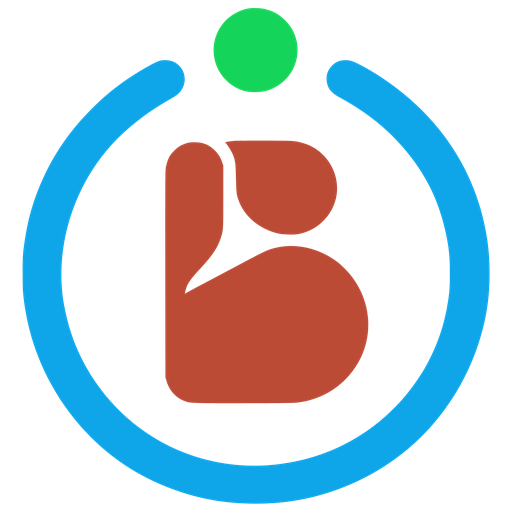
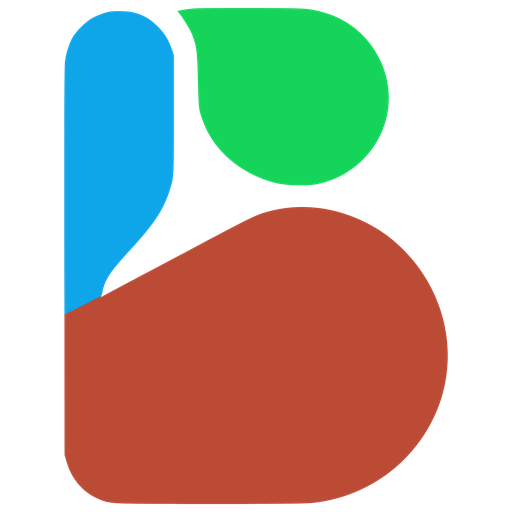
feat: switch the brand mark to B Tricolor
The ring and particle are gone; the B is split into a rust bowl, a sky
stem and a green chamber. BrandMark draws the three outlines from
operations strategy/logo/b-tricolor, and the favicon set in public/ is
replaced by that version's same-named files.

diff --git a/packages/web/src/ui/BrandMark.tsx b/packages/web/src/ui/BrandMark.tsx
@@ -9,21 +9,20 @@ interface BrandMarkProps {
 }
 
 /**
- * Maps the traced outlines onto the viewBox: the outer pair places the mark at
- * the source aspect ratio, the inner pair is the tracer's own y-flip. All three
- * paths share it, so the shapes stay registered to each other.
+ * Maps the outlines onto the viewBox: one uniform scale with a y-flip, which
+ * keeps the source aspect ratio and turns the tracer's y-up coordinates into
+ * the viewBox's y-down ones. All three paths share it, so the shapes stay
+ * registered to each other.
  */
-const TRANSFORM =
-  'translate(0.926888,-0.005946) scale(0.07814190) ' +
-  'translate(0.000000,1280.000000) scale(0.100000,-0.100000)';
+const TRANSFORM = 'translate(-46.512353,137.124128) scale(0.01476023,-0.01476023)';
 
 /**
  * Brand mark — the Breatic logo as an inlined SVG, with no link or wordmark so
  * each chrome (project top bar, studio top bar) wraps it in its own home link.
- * An open sky ring (#0EA5E9) carries a lime particle (#15D45A) at its crown,
- * and a rust core (#BC4B36) sits inside: a vertical anchor, a small upper
- * chamber held apart from it, and a fuller lower one. The white space between
- * them reads as a B on second glance rather than first.
+ * A B in three parts: a rust bowl (#BC4B36) at the bottom, a sky stem
+ * (#0EA5E9) rising on the left, and a lime chamber (#15D45A) at the top right.
+ * The bowl reaches a few units under the stem along their cut, and the stem
+ * is drawn after it, so the two colours meet without an anti-aliased seam.
  *
  * Single source of the mark, shared by both top bars so neither duplicates
  * the SVG. Lives in `ui/` (the cross-feature atom layer) because both
@@ -32,11 +31,11 @@ const TRANSFORM =
  *
  * The logo is the only place the brand raw colors are allowed (ADR 14
  * amended + brand-guard CI); chrome elsewhere uses neutral / primary.
- * Geometry: viewBox `0 0 100 100`, three Bezier outlines traced from
- * `marketing/logo/orbit-b-negative-space-curve/reference/approved-effect.png`,
- * whose SPEC.md holds the full spec. Every element sets fill explicitly
- * (raster backend compatibility). It is scaled by `size` alone (the viewBox is
- * fixed), so it stays crisp at any px.
+ * Geometry: viewBox `0 0 100 100`, the three outlines of `logo-master.svg` in
+ * the operations repo's `strategy/logo/b-tricolor/`, whose SPEC.md holds the
+ * full spec. Every element sets fill explicitly (raster backend
+ * compatibility). It is scaled by `size` alone (the viewBox is fixed), so it
+ * stays crisp at any px.
  * @param props - Brand-mark props.
  * @param props.size - Rendered px size (square); defaults to 28.
  * @returns the inlined brand SVG mark.
@@ -52,22 +51,22 @@ export function BrandMark({ size = 28 }: BrandMarkProps): React.JSX.Element {
       data-testid='top-bar-logo'
     >
       <path
-        id='blue'
-        fill='#0EA5E9'
-        transform={TRANSFORM}
-        d='M3973 10975 c-137 -37 -610 -314 -913 -535 -264 -192 -447 -348 -689 -585 -619 -608 -1065 -1290 -1361 -2085 -120 -320 -206 -647 -265 -1005 -61 -372 -69 -478 -69 -900 0 -409 11 -545 70 -899 191 -1135 745 -2206 1564 -3027 554 -555 1196 -965 1955 -1247 432 -161 850 -262 1310 -316 456 -54 1010 -50 1470 10 1192 155 2328 703 3178 1533 626 611 1120 1408 1397 2256 200 613 281 1167 267 1814 -8 373 -37 634 -107 983 -237 1177 -836 2216 -1749 3032 -397 355 -870 681 -1301 897 -142 71 -226 93 -335 86 -117 -7 -201 -44 -281 -122 -140 -137 -176 -317 -104 -509 37 -98 130 -186 287 -270 575 -312 1044 -672 1435 -1105 574 -635 911 -1282 1097 -2107 82 -367 105 -582 106 -999 0 -373 -12 -520 -71 -835 -80 -426 -194 -775 -379 -1158 -109 -224 -163 -320 -301 -527 -423 -639 -975 -1148 -1650 -1523 -846 -470 -1905 -671 -2879 -546 -926 119 -1778 503 -2471 1115 -698 617 -1211 1455 -1433 2344 -105 422 -145 727 -144 1110 2 910 297 1848 821 2610 263 383 552 695 922 994 308 249 501 380 949 640 94 56 145 101 193 175 152 234 69 545 -177 669 -89 45 -241 59 -342 32z'
-      />
-      <path
-        id='green'
-        fill='#15D45A'
-        transform={TRANSFORM}
-        d='M6125 12233 c-205 -28 -414 -135 -569 -290 -305 -305 -381 -780 -188 -1168 121 -245 337 -432 592 -515 102 -33 192 -43 344 -37 170 5 256 26 401 97 614 298 766 1103 302 1596 -163 173 -341 270 -566 309 -77 14 -244 18 -316 8z'
-      />
-      <path
-        id='red'
+        id='bowl'
         fill='#BC4B36'
         transform={TRANSFORM}
-        d='M5770 9050 c-52 -3 -125 -12 -163 -19 l-67 -13 20 -27 c65 -82 142 -211 168 -278 56 -145 64 -208 72 -573 8 -325 11 -365 47 -475 126 -399 473 -709 928 -831 134 -35 392 -45 528 -20 423 80 762 387 882 800 168 583 -185 1215 -773 1381 -202 57 -205 58 -902 60 -355 1 -688 -1 -740 -5z M4684 9010 c-73 -13 -174 -52 -241 -91 -73 -44 -188 -159 -232 -232 -47 -80 -89 -211 -101 -320 -8 -63 -10 -867 -8 -2542 l3 -2450 23 -79 c65 -231 210 -399 417 -486 145 -60 152 -60 1420 -60 726 0 1192 4 1265 11 683 62 1275 473 1569 1089 333 697 188 1537 -363 2108 -158 164 -304 271 -511 375 -377 189 -806 242 -1186 146 -190 -48 -225 -64 -859 -401 -223 -119 -598 -318 -835 -443 -236 -125 -441 -235 -454 -243 -22 -15 -23 -15 -18 3 3 11 12 43 18 70 37 151 102 247 350 515 299 325 419 505 497 747 58 177 57 165 57 978 l0 750 -24 70 c-42 125 -90 204 -176 291 -133 134 -267 193 -455 199 -58 2 -128 0 -156 -5z'
+        d='M4103.50 5164.27 L4105.00 3375.00 L4128.00 3296.00 C4193.00 3065.00 4338.00 2897.00 4545.00 2810.00 C4690.00 2750.00 4697.00 2750.00 5965.00 2750.00 C6691.00 2750.00 7157.00 2754.00 7230.00 2761.00 C7913.00 2823.00 8505.00 3234.00 8799.00 3850.00 C9132.00 4547.00 8987.00 5387.00 8436.00 5958.00 C8278.00 6122.00 8132.00 6229.00 7925.00 6333.00 C7548.00 6522.00 7119.00 6575.00 6739.00 6479.00 C6549.00 6431.00 6514.00 6415.00 5880.00 6078.00 C5657.00 5959.00 5282.00 5760.00 5045.00 5635.00 C4809.00 5510.00 4604.00 5400.00 4591.00 5392.00 C4569.00 5377.00 4568.00 5377.00 4573.00 5395.00 L4573.00 5403.00 Z'
+      />
+      <path
+        id='stem'
+        fill='#0EA5E9'
+        transform={TRANSFORM}
+        d='M4573.00 5395.00 C4576.00 5406.00 4585.00 5438.00 4591.00 5465.00 C4628.00 5616.00 4693.00 5712.00 4941.00 5980.00 C5240.00 6305.00 5360.00 6485.00 5438.00 6727.00 C5496.00 6904.00 5495.00 6892.00 5495.00 7705.00 L5495.00 8455.00 L5471.00 8525.00 C5429.00 8650.00 5381.00 8729.00 5295.00 8816.00 C5162.00 8950.00 5028.00 9009.00 4840.00 9015.00 C4782.00 9017.00 4712.00 9015.00 4684.00 9010.00 C4611.00 8997.00 4510.00 8958.00 4443.00 8919.00 C4370.00 8875.00 4255.00 8760.00 4211.00 8687.00 C4164.00 8607.00 4122.00 8476.00 4110.00 8367.00 C4102.00 8304.00 4100.00 7500.00 4102.00 5825.00 L4103.50 5156.27 Z'
+      />
+      <path
+        id='top'
+        fill='#15D45A'
+        transform={TRANSFORM}
+        d='M5770.00 9050.00 C5718.00 9047.00 5645.00 9038.00 5607.00 9031.00 L5540.00 9018.00 L5560.00 8991.00 C5625.00 8909.00 5702.00 8780.00 5728.00 8713.00 C5784.00 8568.00 5792.00 8505.00 5800.00 8140.00 C5808.00 7815.00 5811.00 7775.00 5847.00 7665.00 C5973.00 7266.00 6320.00 6956.00 6775.00 6834.00 C6909.00 6799.00 7167.00 6789.00 7303.00 6814.00 C7726.00 6894.00 8065.00 7201.00 8185.00 7614.00 C8353.00 8197.00 8000.00 8829.00 7412.00 8995.00 C7210.00 9052.00 7207.00 9053.00 6510.00 9055.00 C6155.00 9056.00 5822.00 9054.00 5770.00 9050.00 Z'
       />
     </svg>
   );

diff --git a/packages/web/src/ui/__tests__/BrandMark.test.tsx b/packages/web/src/ui/__tests__/BrandMark.test.tsx
@@ -8,14 +8,13 @@ import { BrandMark } from '@web/ui/BrandMark';
 
 /** What each path contributes, and enough of its data to catch a swap. */
 const PATHS = [
-  { id: 'blue', fill: '#0EA5E9', length: 1038, head: 'M3973 10975 c-137 -37 -610 -314' },
-  { id: 'green', fill: '#15D45A', length: 219, head: 'M6125 12233 c-205 -28 -414 -135' },
-  { id: 'red', fill: '#BC4B36', length: 874, head: 'M5770 9050 c-52 -3 -125 -12 -163' },
+  { id: 'bowl', fill: '#BC4B36', length: 608, head: 'M4103.50 5164.27 L4105.00 3375' },
+  { id: 'stem', fill: '#0EA5E9', length: 608, head: 'M4573.00 5395.00 C4576.00 5406' },
+  { id: 'top', fill: '#15D45A', length: 542, head: 'M5770.00 9050.00 C5718.00 9047' },
 ] as const;
 
 /** Shared by all three paths: the alignment transform onto the viewBox. */
-const TRANSFORM =
-  'translate(0.926888,-0.005946) scale(0.07814190) translate(0.000000,1280.000000) scale(0.100000,-0.100000)';
+const TRANSFORM = 'translate(-46.512353,137.124128) scale(0.01476023,-0.01476023)';
 
 describe('BrandMark', () => {
   it('renders the inlined brand SVG mark, hidden from the a11y tree', () => {
@@ -27,7 +26,7 @@ describe('BrandMark', () => {
     expect(mark).toHaveAttribute('aria-hidden', 'true');
   });
 
-  it('draws the orbit-B geometry: an open ring, a particle, and the core', () => {
+  it('draws the B Tricolor geometry: the bowl, the stem, and the top chamber', () => {
     render(<BrandMark />);
     const mark = screen.getByTestId('top-bar-logo');
     // The mark is the registrable identity, so its geometry is pinned here:
